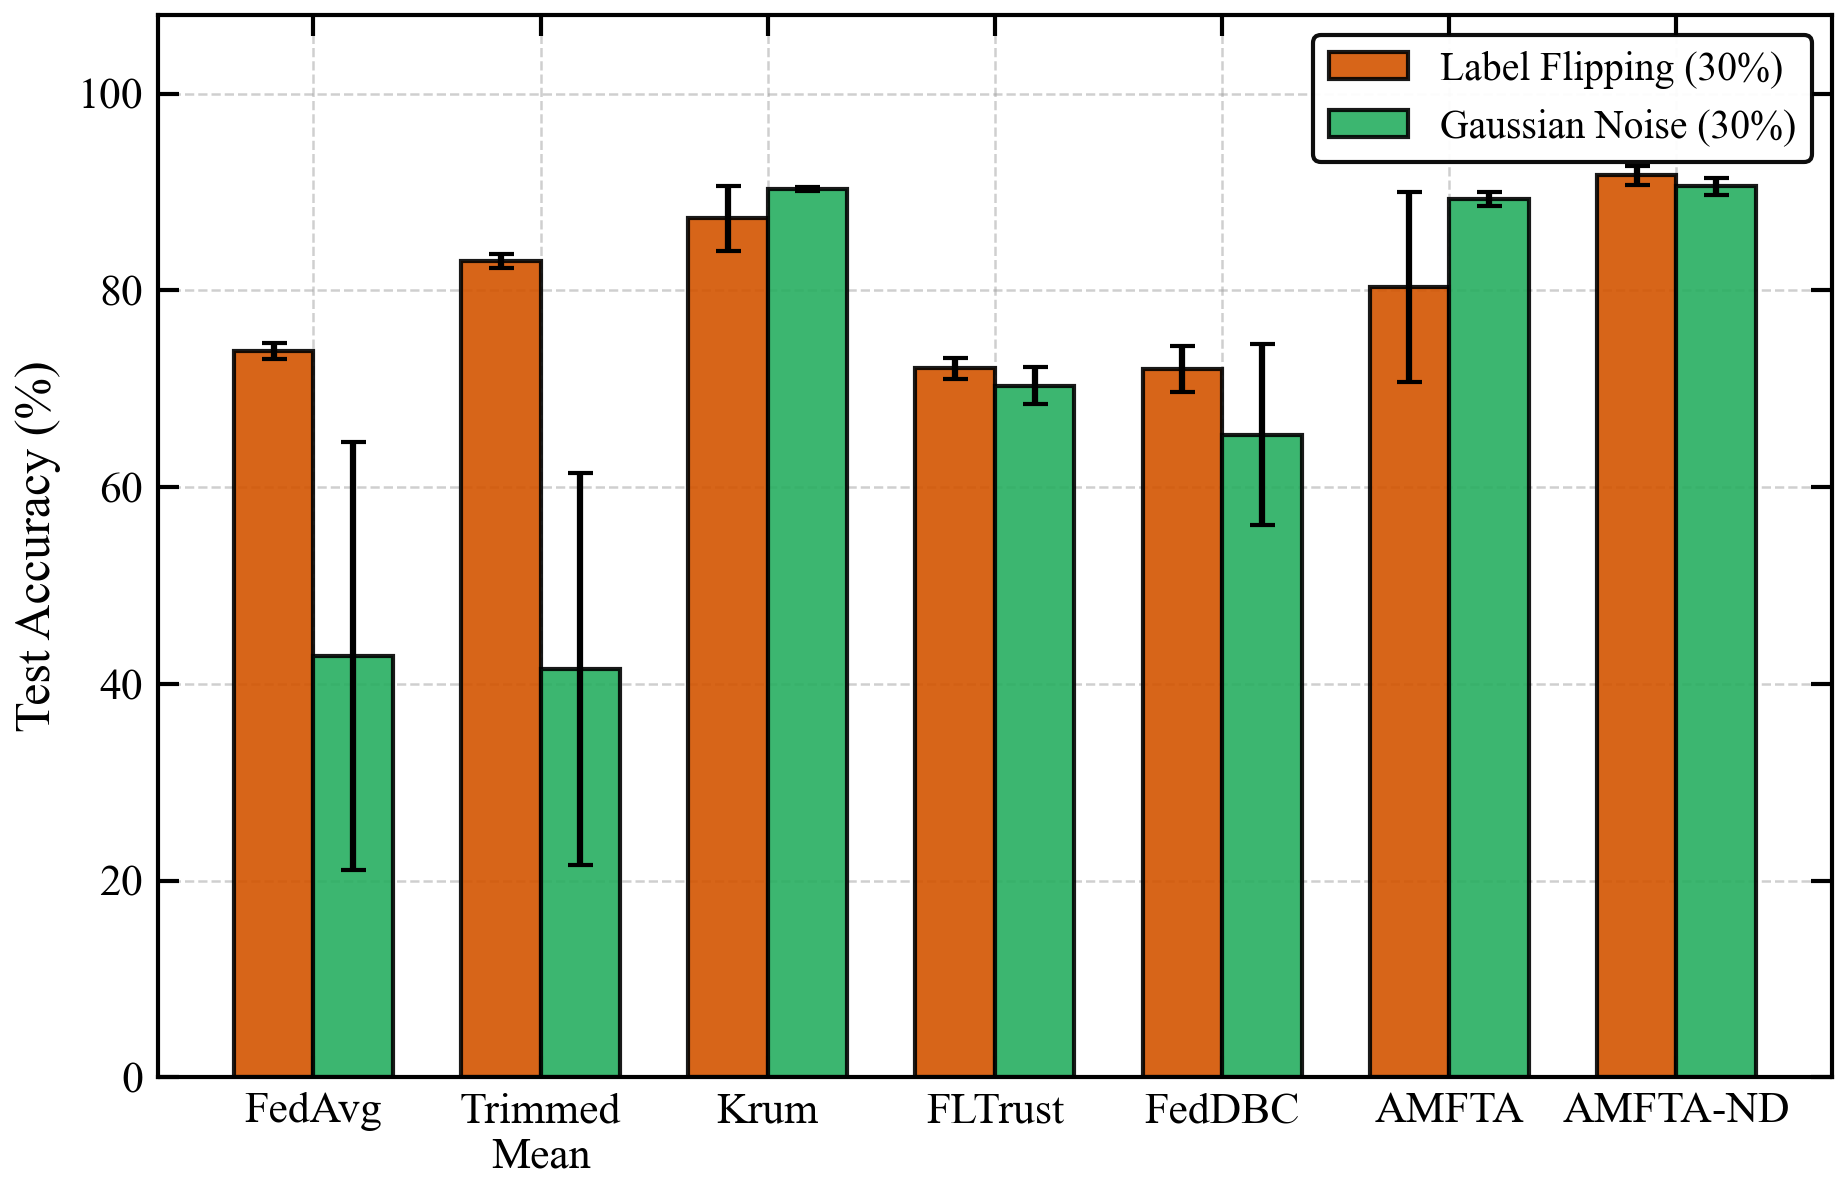
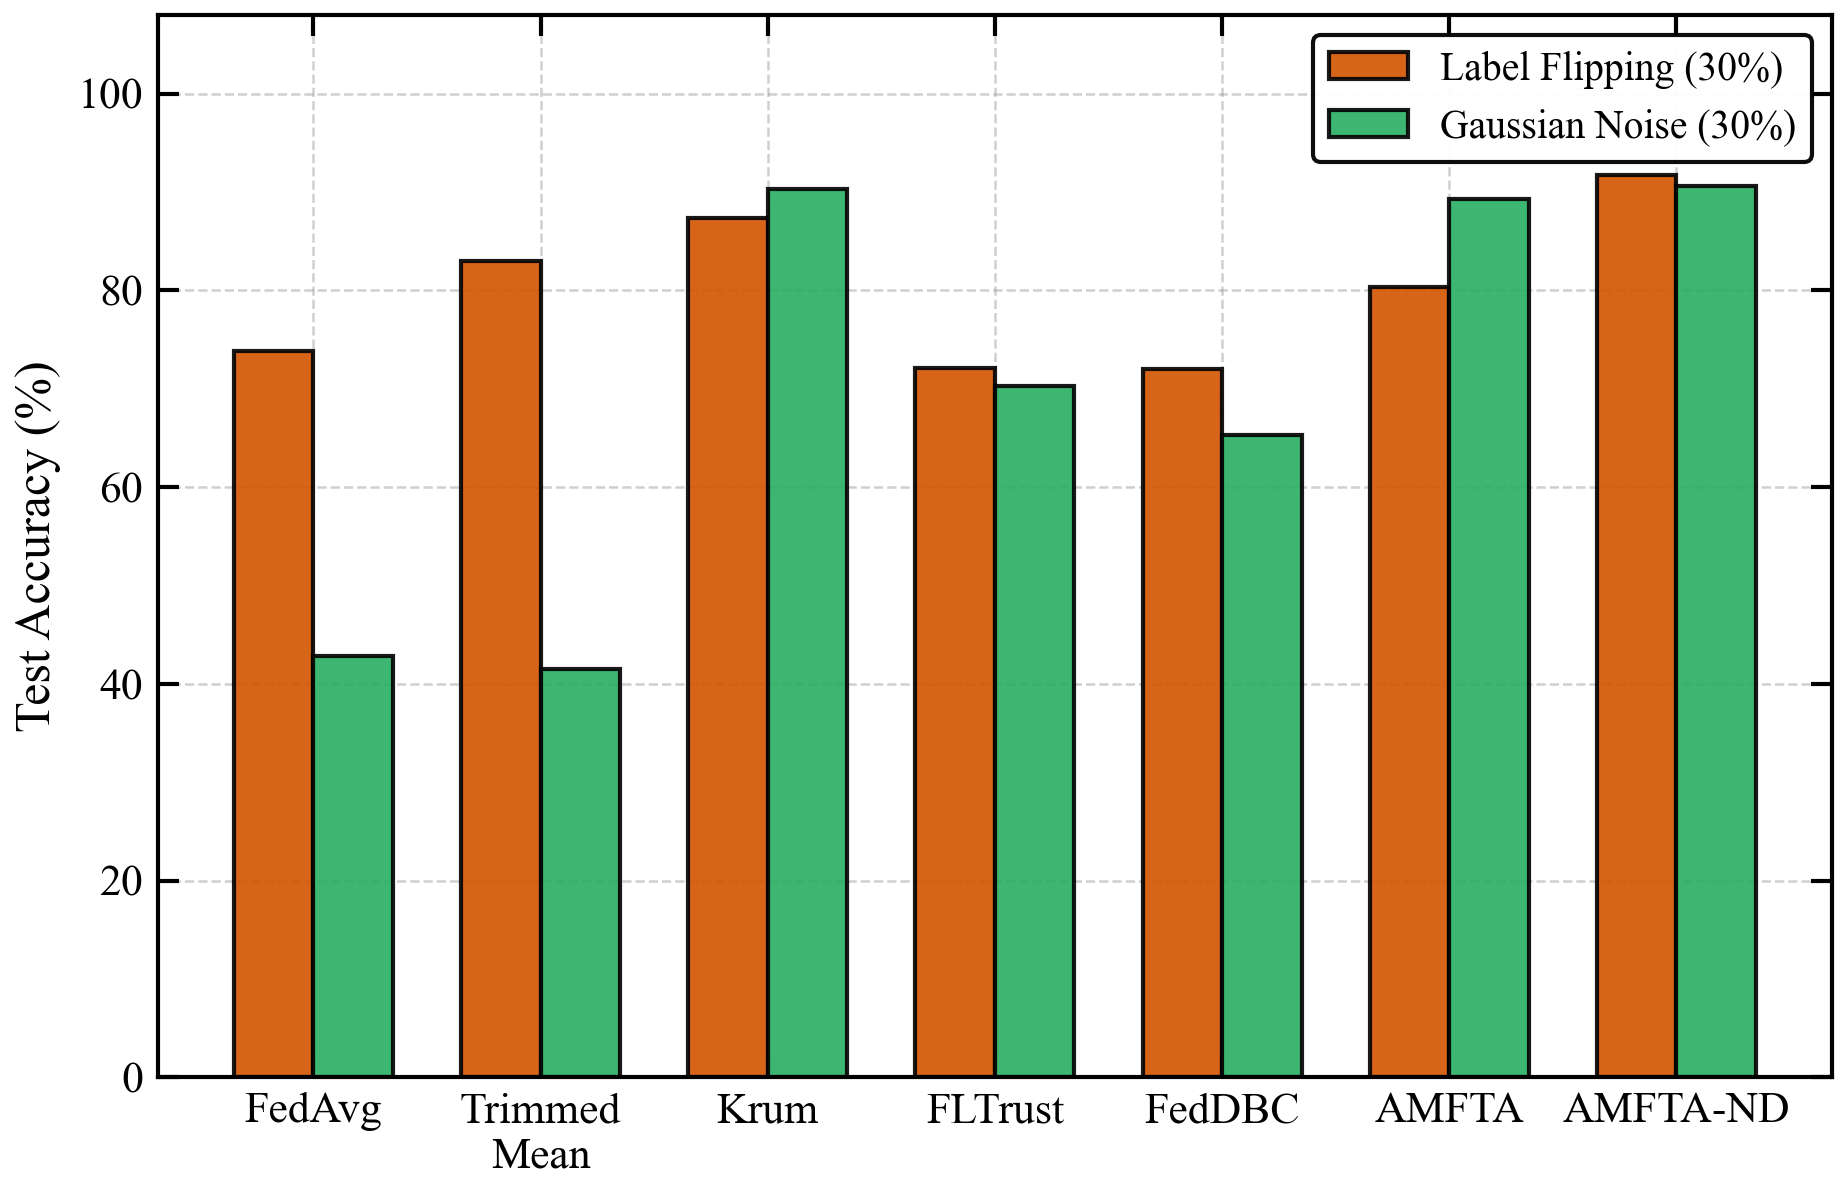
fix: remove vertical black error bar lines from bar chart for cleaner visual appearance

diff --git a/experiments/build_paper_figures.py b/experiments/build_paper_figures.py
@@ -200,10 +200,10 @@ def plot_bar_chart(stats, filename):
     apply_journal_axes_style(ax)
     
     # Classic Elsevier palette: Earthy Burnt Orange and Forest Green with solid black bar borders
-    ax.bar(x - width/2, flip_means, width, yerr=flip_errs, label="Label Flipping (30%)",
-           color="#D35400", edgecolor="black", linewidth=1.0, capsize=3, alpha=0.90)
-    ax.bar(x + width/2, gauss_means, width, yerr=gauss_errs, label="Gaussian Noise (30%)",
-           color="#27AE60", edgecolor="black", linewidth=1.0, capsize=3, alpha=0.90)
+    ax.bar(x - width/2, flip_means, width, label="Label Flipping (30%)",
+           color="#D35400", edgecolor="black", linewidth=1.0, alpha=0.90)
+    ax.bar(x + width/2, gauss_means, width, label="Gaussian Noise (30%)",
+           color="#27AE60", edgecolor="black", linewidth=1.0, alpha=0.90)
     
     ax.set_ylabel("Test Accuracy (%)")
     ax.set_xticks(x)